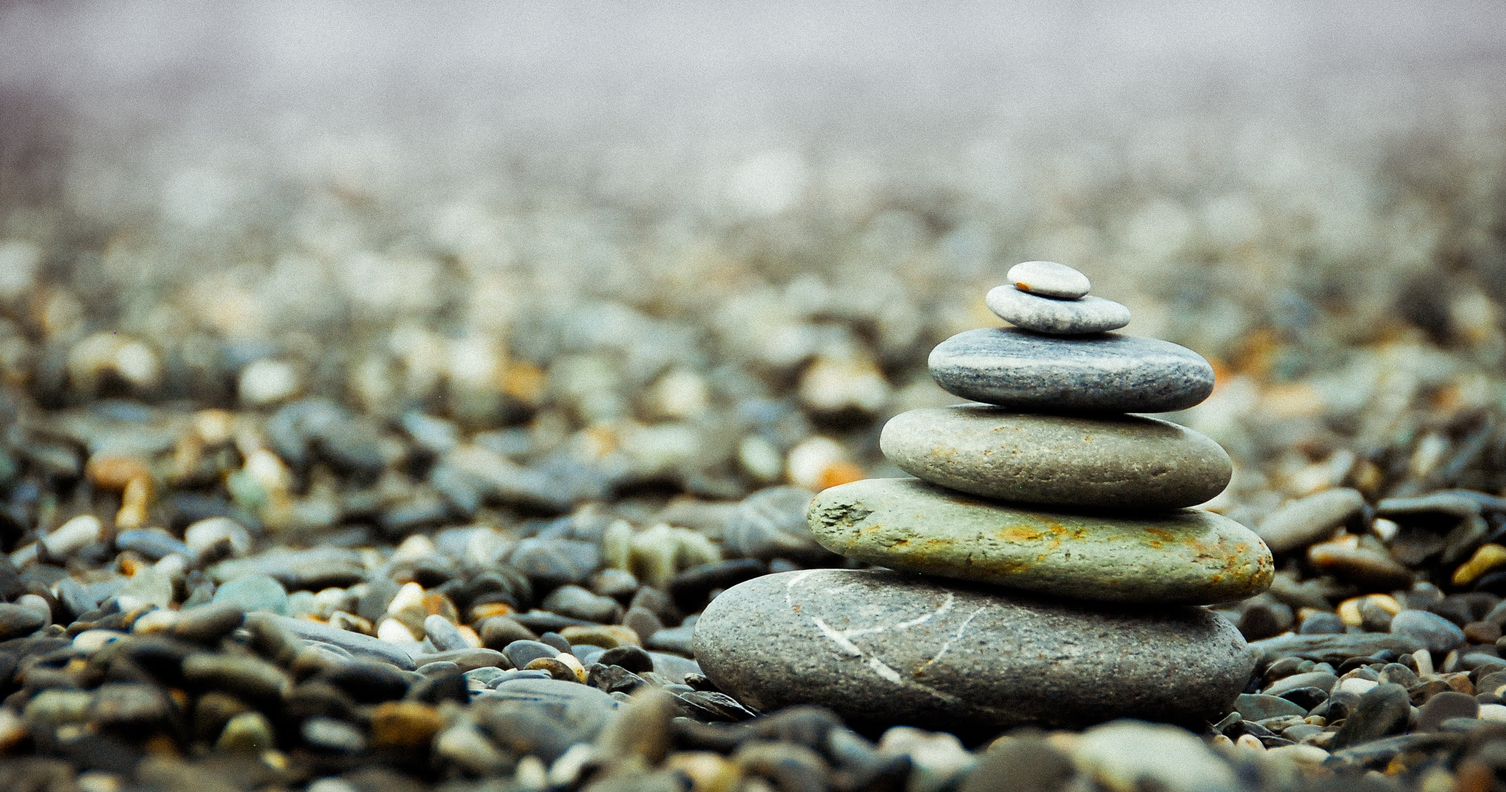
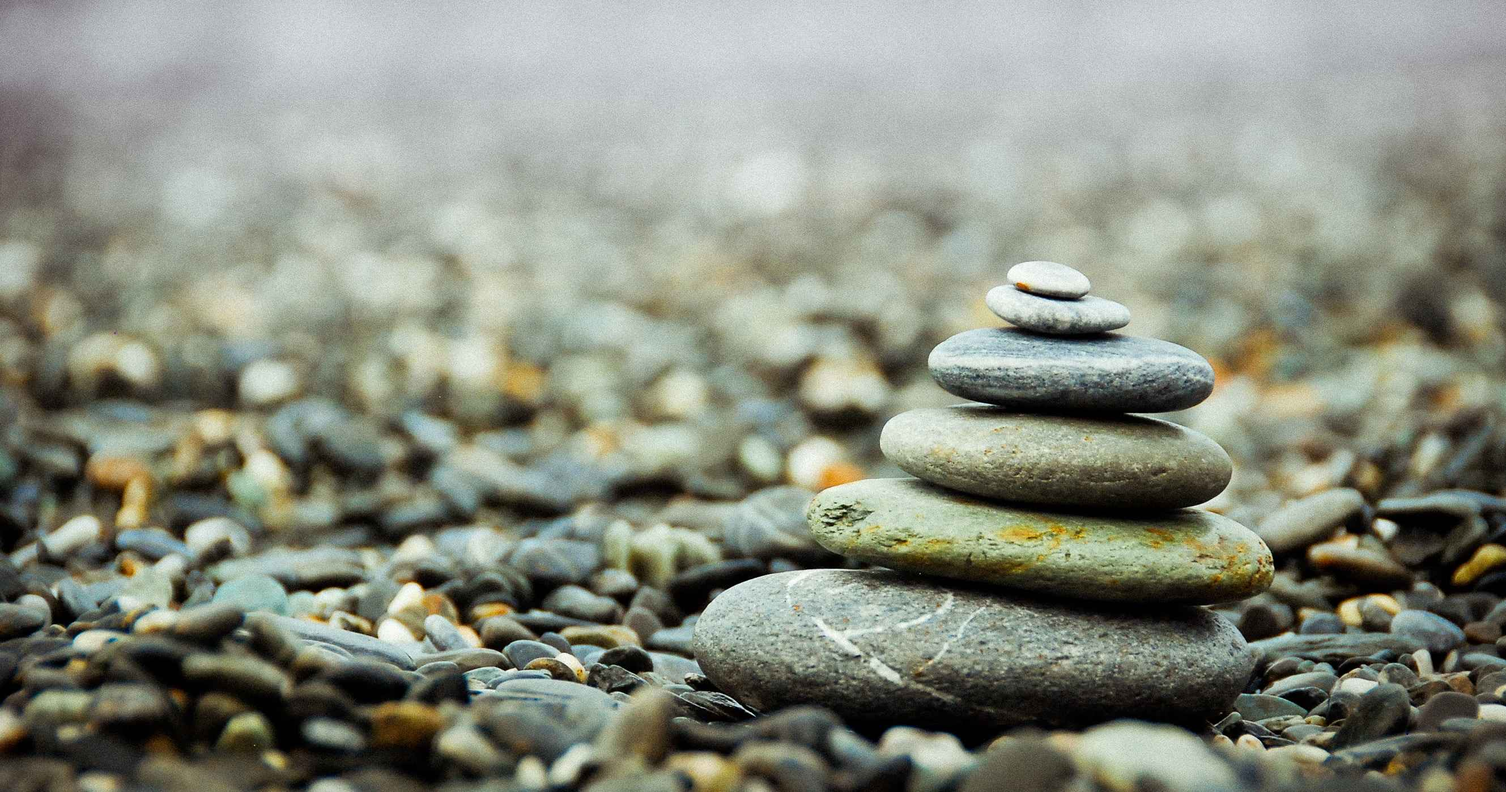
optimise cover image

diff --git a/posts/2019/2019-01-27-multiple-git-profiles/index.md b/posts/2019/2019-01-27-multiple-git-profiles/index.md
@@ -12,7 +12,7 @@ tags:
     'git',
   ]
 published: true
-cover: ./cover.png
+cover: ./cover.jpg
 coverCredit: Photo by Evelyn on Unsplash
 ---
 
